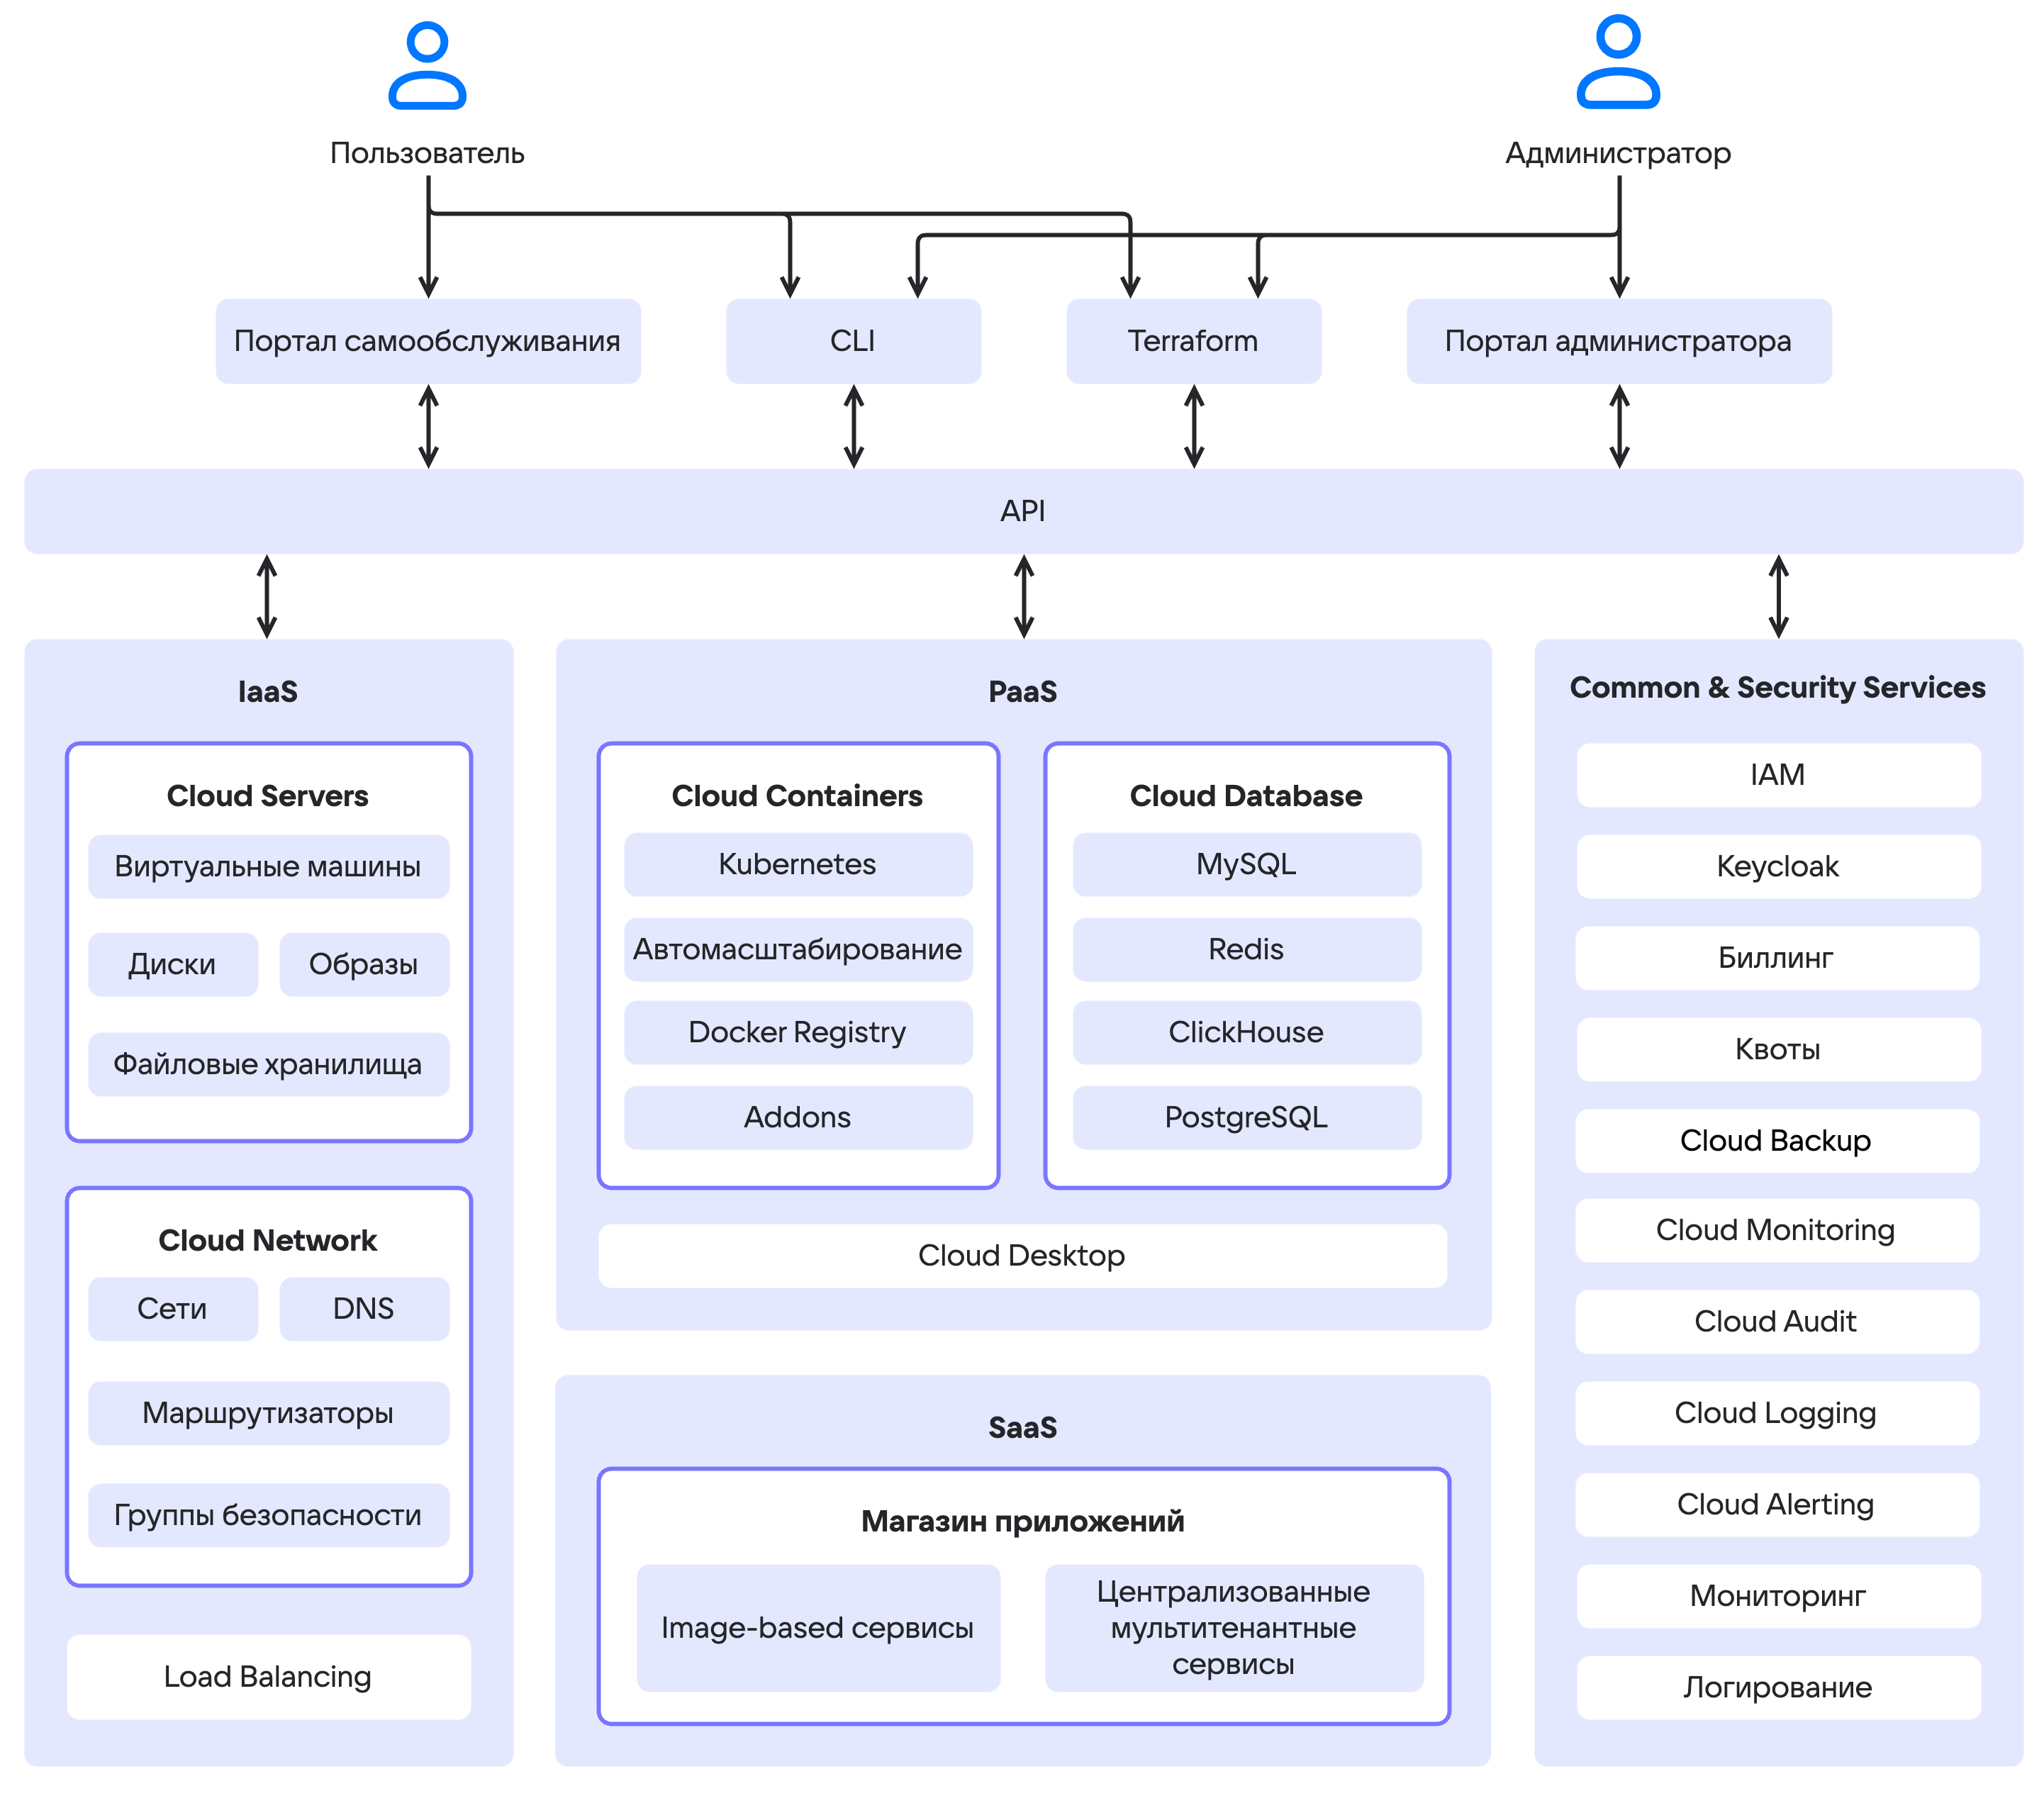
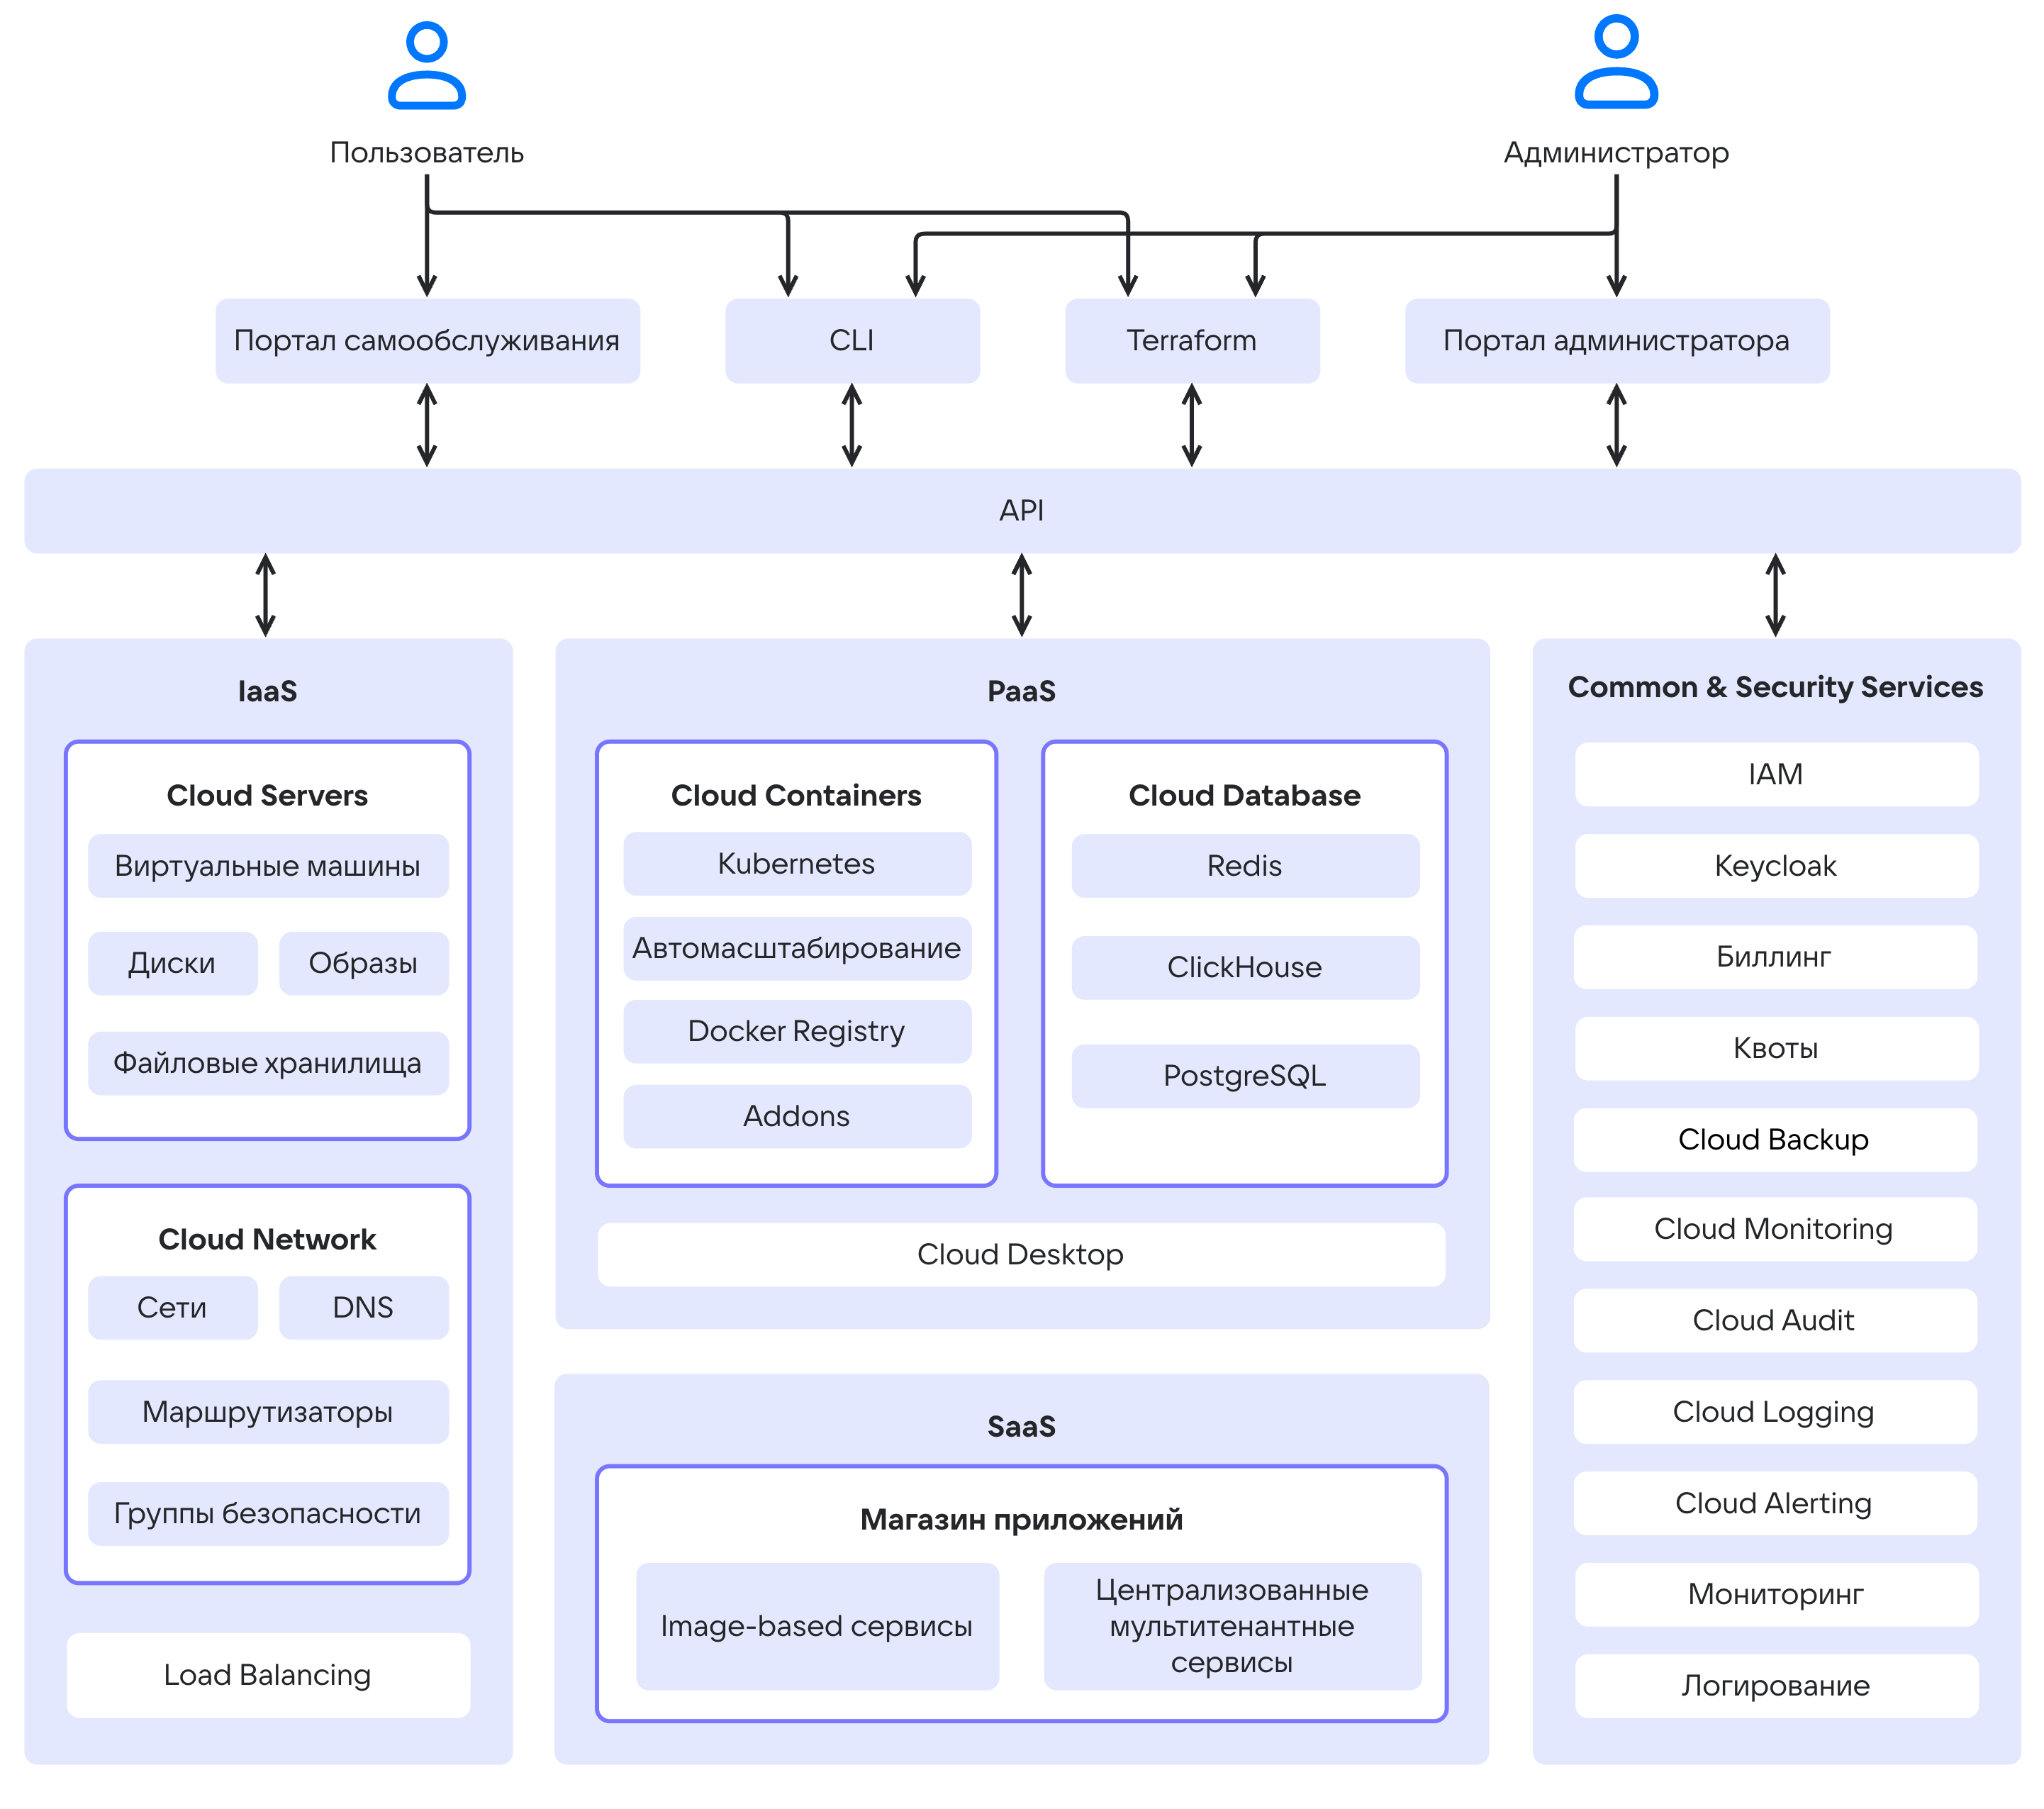
MCSPC-27734 [РП] Удаление MySQL

diff --git a/docs/ru/intro/service-list-private/service-list-private.md b/docs/ru/intro/service-list-private/service-list-private.md
@@ -19,7 +19,7 @@
   {cut(Список PaaS-сервисов)}
 
   - {linkto(../../kubernetes/k8s#k8s-k8s)[text=Cloud Containers]} — позволяет создавать и управлять кластерами Kubernetes, в которых можно запускать сервисы и приложения.
-  - {linkto(../../dbs/dbaas#dbaas-dbaas)[text=Cloud Databases]} — предоставляет масштабируемые СУБД: MySQL, PostgreSQL,{ifdef(private-pg)} Postgres Pro,{/ifdef} ClickHouse, Redis.
+  - {linkto(../../dbs/dbaas#dbaas-dbaas)[text=Cloud Databases]} — предоставляет масштабируемые СУБД: PostgreSQL,{ifdef(private-pg)} Postgres Pro,{/ifdef} ClickHouse, Redis.
   - {linkto(../../monitoring-services/alerting#alerting)[text=Cloud Alerting]} —  настраивает уведомления об изменении ключевых метрик сервисов {var(cloud)}.
   - {linkto(../../monitoring-services/logging#logging)[text=Cloud Logging]} — агрегирует и анализирует логи сервисов в {var(cloud)}.
   - {linkto(../../monitoring-services/monitoring#monitoring)[text=Cloud Monitoring]} — обеспечивает мониторинг метрик, специфичных для PaaS-сервисов, например, аналитика по подам K8s-контейнеров, статистика транзакций СУБД.